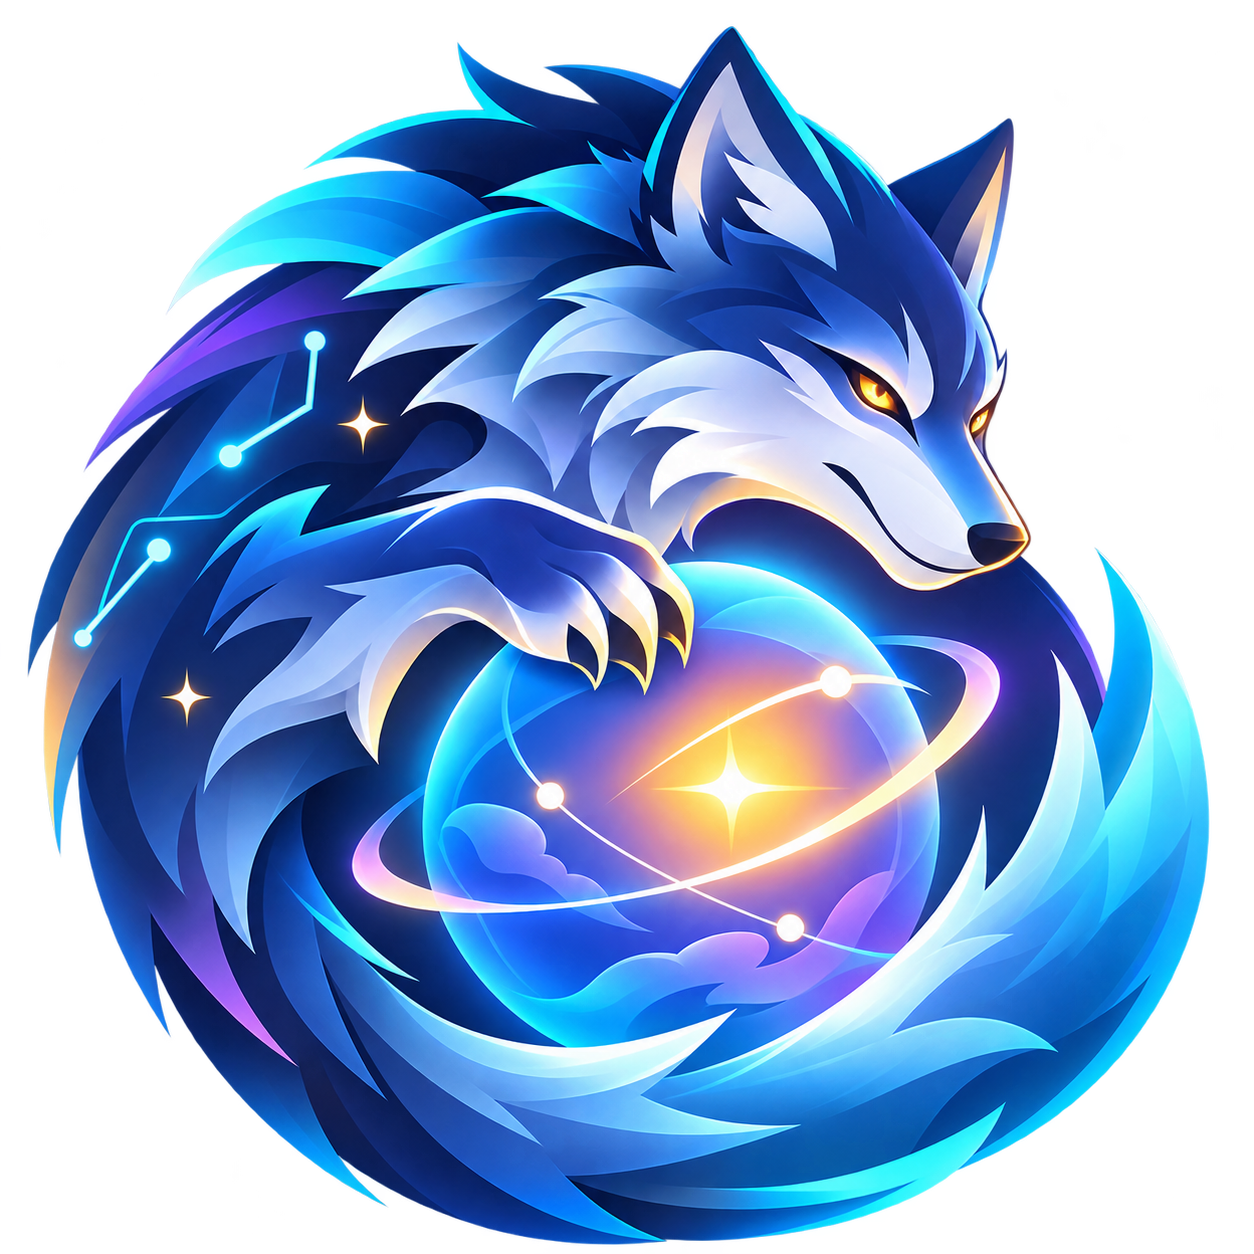
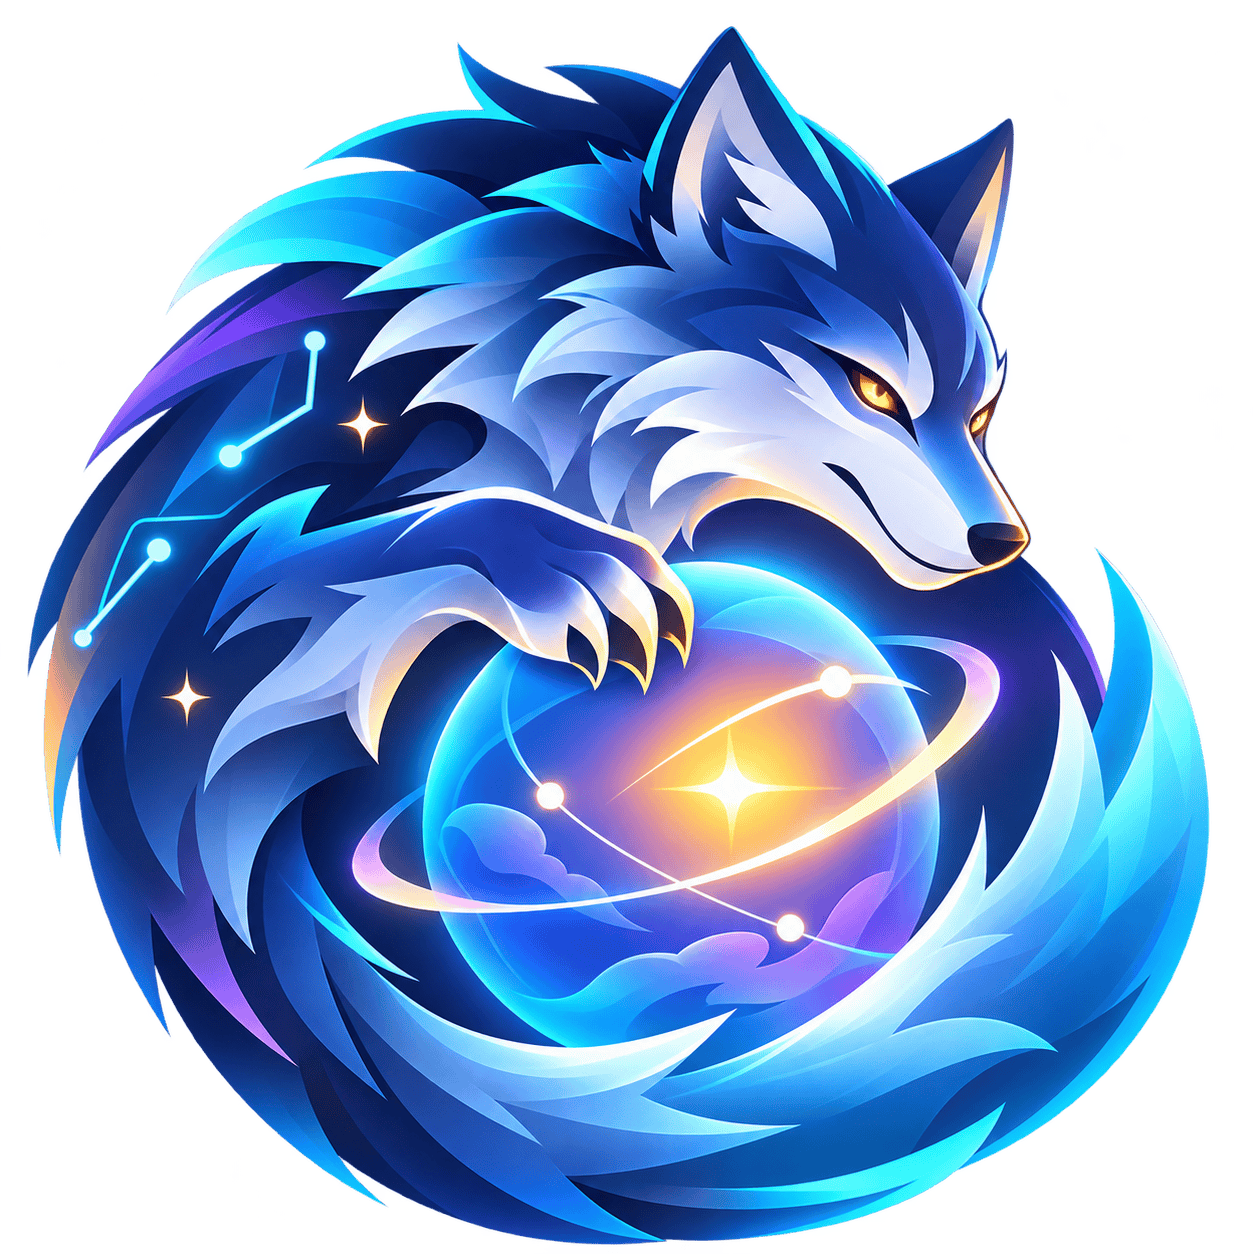
chore(debloat): quantize branding PNGs under 1 MiB and empty the size allowlist

diff --git a/DEBLOAT_PROGRESS.md b/DEBLOAT_PROGRESS.md
@@ -15,7 +15,7 @@ new history, not the existing `.git` pack (127 MiB at the start).
 - [x] 7. Compress the remaining PNGs losslessly with oxipng, keeping filenames and dimensions. — 17,555,947 bytes (418 PNGs, 67,652,804 → 50,096,857 bytes, using `oxipng 10.2.1 -o 4 --strip safe`; all 418 decode to identical pixels at the same dimensions through Electron `nativeImage`)
 - [x] 8. Make sure `.gitignore` covers `bin/`, `obj/`, `.tmp/`, `dist/`, `release/` and `node_modules/`, and add a check that flags new files over 1 MB. — 0 bytes (`.gitignore` now ignores `bin/`, `obj/` and `.tmp/` everywhere; `npm run check:hygiene`, which runs in both CI workflows, now fails on tracked files over 1 MiB that aren't on its allowlist, and also rejects tracked `release/`, `node_modules/` and `.tmp/` paths)
 
-**Total saved:** 86,824,907 bytes (steps 66,961,849 + follow-ups 19,863,058)
+**Total saved:** 89,884,139 bytes (steps 66,961,849 + follow-ups 22,922,290)
 
 ## Follow-ups (owner-approved after step 8)
 
@@ -24,7 +24,10 @@ new history, not the existing `.git` pack (127 MiB at the start).
 - [x] F2. Make the validator and rebuild script use the `-v2` walk strips, then remove the replaced ones. — 1,055,596 bytes
   (byte/nova/rocky `-walk-frames-v2.png` replaced their `-walk-frames.png`; `PetWindow.tsx` uses one name for every pet,
   so `check:pet-assets` now validates the walk strips actually shown; the rebuild script skips those three pets' walk strips)
-- [ ] F3. Shrink the 4 branding PNGs below 1 MiB (lossy, approved by the owner).
+- [x] F3. Shrink the 4 branding PNGs below 1 MiB (lossy, approved by the owner). — 3,059,232 bytes (5,739,841 → 2,680,609;
+  libvips/libimagequant 256-colour palette at Q=100 with dithering, then oxipng; same filenames and dimensions; PSNR 41–59 dB
+  for the illustrations and 33.5 dB for the icon composited on the app background; checked by eye. Undithered output banded
+  visibly, so it wasn't used. The `check:hygiene` allowlist is now empty.)
 - [ ] F4. Remove the `../skai-debloat` worktree.
 
 ## Verification gate
@@ -90,18 +93,16 @@ for the 6 pets × 7 non-walk states. There are no other duplicates under `assets
 
 - **Single-state PNGs (`assets/pets/<pet>-<state>.png`, 42 files):** inputs to the archived
   `legacy-tools/make-pet-frames.ps1`, so they're kept alongside it. (The step 1 audit wrongly listed them as unreferenced.)
-- **Walk sources (5,347,226 bytes, 6 files):** `normalize-pet-animations.ps1` reads `generated/$pet-walk-source.png`, and the
+- **Walk sources (4,702,461 bytes, 6 files):** `normalize-pet-animations.ps1` reads `generated/$pet-walk-source.png`, and the
   pets README calls them the editable inputs. They're only removable if that rebuild path is retired.
   Byte, Nova and Rocky's sources no longer feed the runtime walk strips (F2) and are kept for reference only.
 - **`normalize-pet-animations.ps1`:** step 3 changed its default input to `generated/`. The change wasn't run, because
   PowerShell (`pwsh`) isn't installed here.
 - **`archive/legacy-tools/`** (11 KB) still reads and writes the removed `*-sprite-sheet.png` files, so those scripts
   no longer have inputs. Kept, because no step covers them.
-- **`skai-desktop-mark.png` and `skai-desktop-architecture.png` (3,356,954 bytes):** mentioned only in
+- **`skai-desktop-mark.png` and `skai-desktop-architecture.png` (1,692,619 bytes):** mentioned only in
   `assets/branding/SKAI_UI_ASSET_PACK.md`. Nothing in the app or site loads them (the site uses `docs/site-assets/*.webp`).
   Removable if that asset-pack guide is updated too.
-- **Branding PNGs are still over 1 MiB after compression** (1.28–1.62 MB each), so they stay on the `check:hygiene`
-  allowlist. Shrinking them further would need lossy compression or smaller dimensions, which is a design decision.
 
 ## Failures
 
